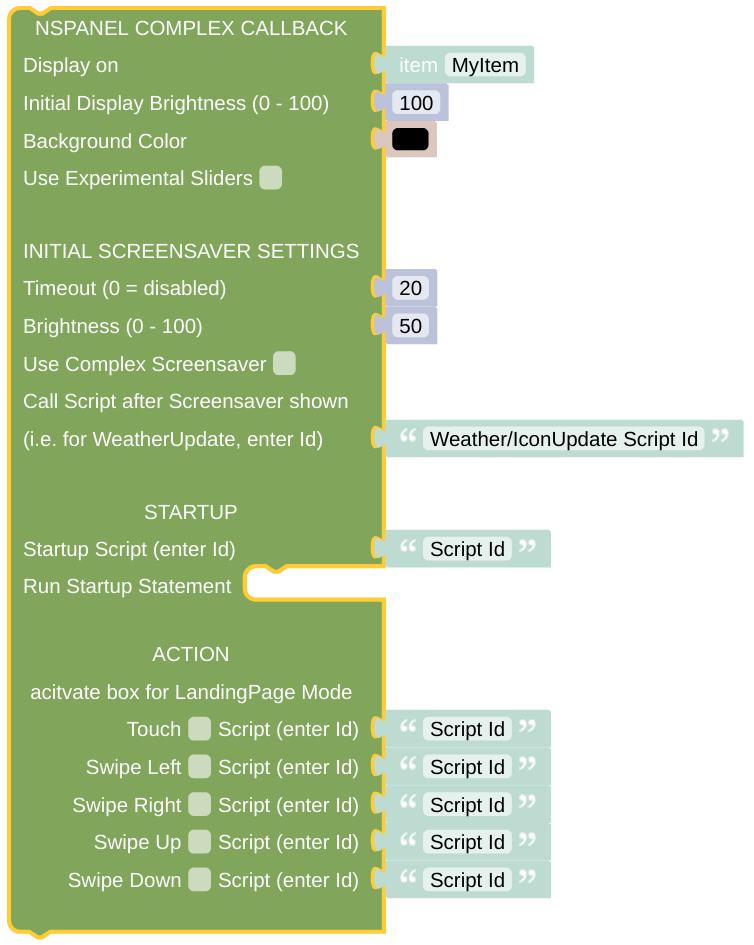
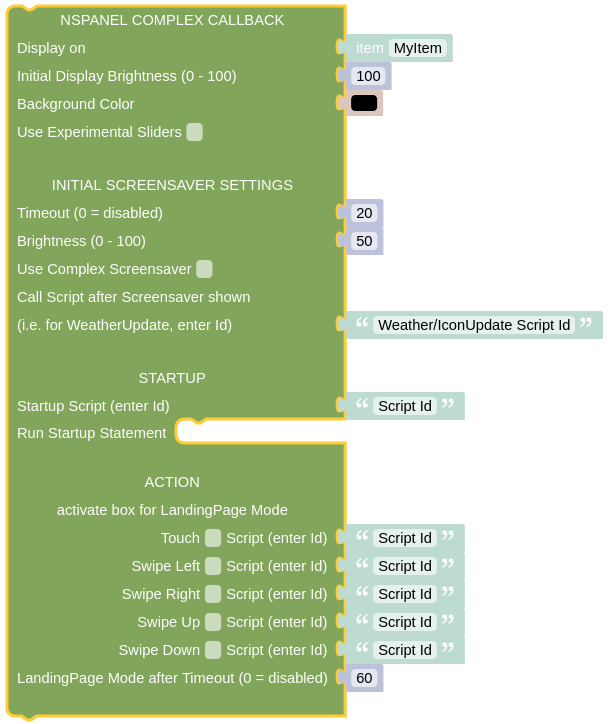
updated documentation

Changed region(s): [[0.0, 0.0, 1.0, 1.0], [0.0312, 0.0, 0.4688, 0.2127]]

diff --git a/docs/blockLibrary_nspanel_helpers_setLandingPageTime.md b/docs/blockLibrary_nspanel_helpers_setLandingPageTime.md
@@ -1,0 +1,15 @@
+# setLandingPageTime
+
+[<img src="img/blockLibrary_nspanel_helpers_setLandingPageTime.png" align="right" width="300">](img/blockLibrary_nspanel_helpers_setLandingPageTime.png)
+
+**Important:** This *helper* will do nothing if called directly without any context. It requires some information about the *NSPanel Item* to work with. If you don't use this helper in any script called by your CallBack (like some Card), you need to [set the context yourself](blockLibrary_nspanel_helpers_startScriptWithContext.md).
+
+## Configuration
+
+Just supply the new timeout to forget the last page if screensaver is shown in seconds (begin again with landingPage Mode). It will get activated immediately trough some [indirect call trough your CallBack](blockLibrary_nspanel_callback_callback.md#newtimeout). Your CallBack has to be configured and working.<br clear="right"/>
+
+---
+
+[Openhab Blockly Nspanel - Library Documentation](README.md)
+
+---

diff --git a/docs/blockLibrary_nspanel_callback_callback_complex.md b/docs/blockLibrary_nspanel_callback_callback_complex.md
@@ -28,6 +28,7 @@ You might also like to display some initial card (page) after starting.
 Once the Screensaver is shown, you surely like also to leave it. Now you can add some fine-grained configuration which actions should happen. Be aware that the swipe actions are sometimes hard to trigger - you might always end up with some touch event instead if the desired swipe event.
 
 - Add the ID of some script running when touched or swiped. You can activate the checkbox to use the script as some Landing Page.
+- Additionally you can add some timeout in seconds after which the last active page before the Screensaver was shown is forgotten and the mentioned scripts will be called as in LandingPage mode.
 
 ## Context information
 

diff --git a/docs/README.md b/docs/README.md
@@ -19,6 +19,7 @@
 - [loadScreensaver](blockLibrary_nspanel_helpers_loadScreensaver.md)
 - [reloadPage](blockLibrary_nspanel_helpers_reloadPage.md)
 - [setTimeout](blockLibrary_nspanel_helpers_setTimeout.md)
+- [setLandingPageTime](blockLibrary_nspanel_helpers_setLandingPageTime.md)
 - [setBrightness](blockLibrary_nspanel_helpers_setBrightness.md)
 - [setScreensaverScripts](blockLibrary_nspanel_helpers_setScreenSaverScripts.md)
 - [setScreensaverScripts(Complex)](blockLibrary_nspanel_helpers_setScreenSaverScriptsComplex.md)
